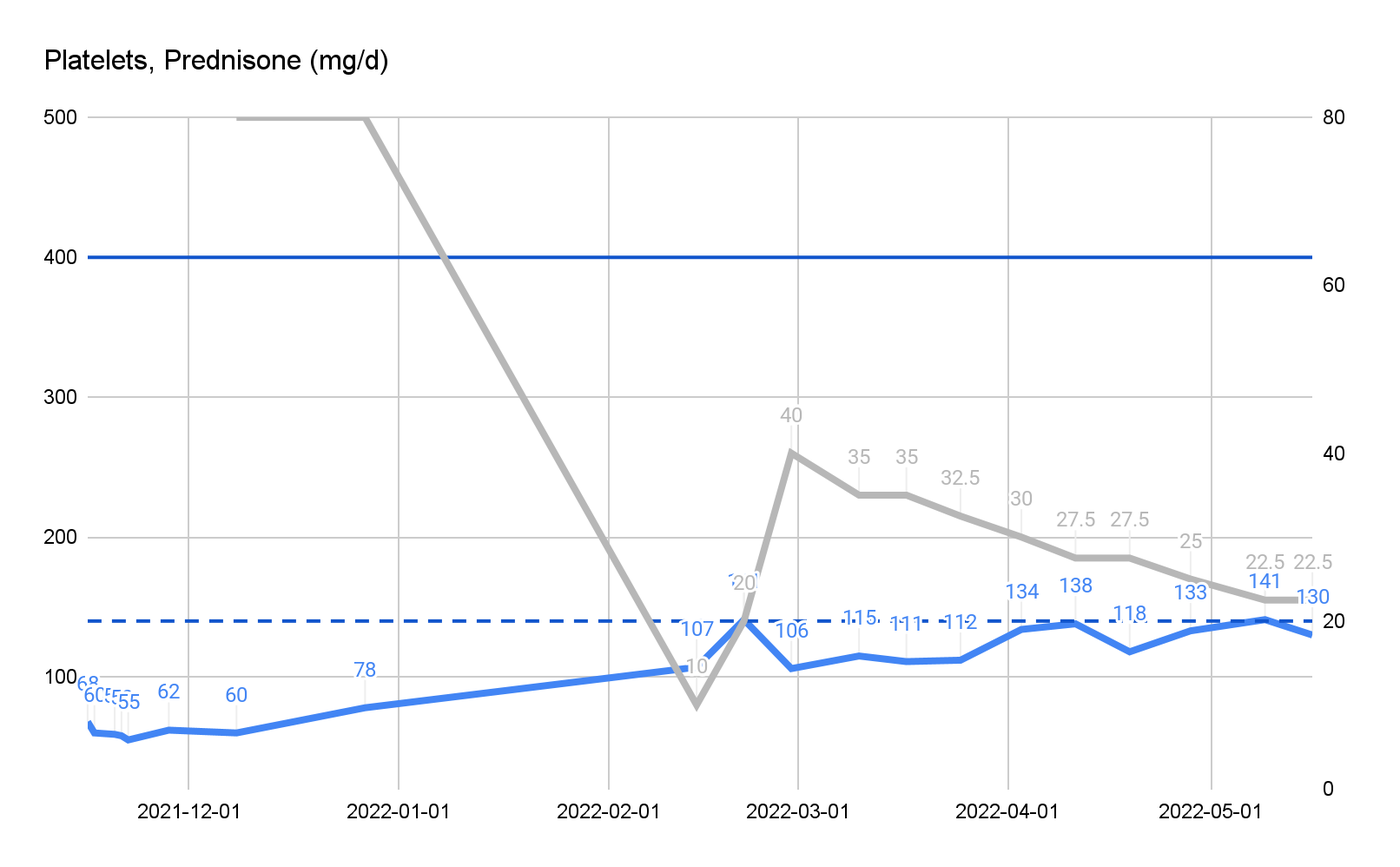
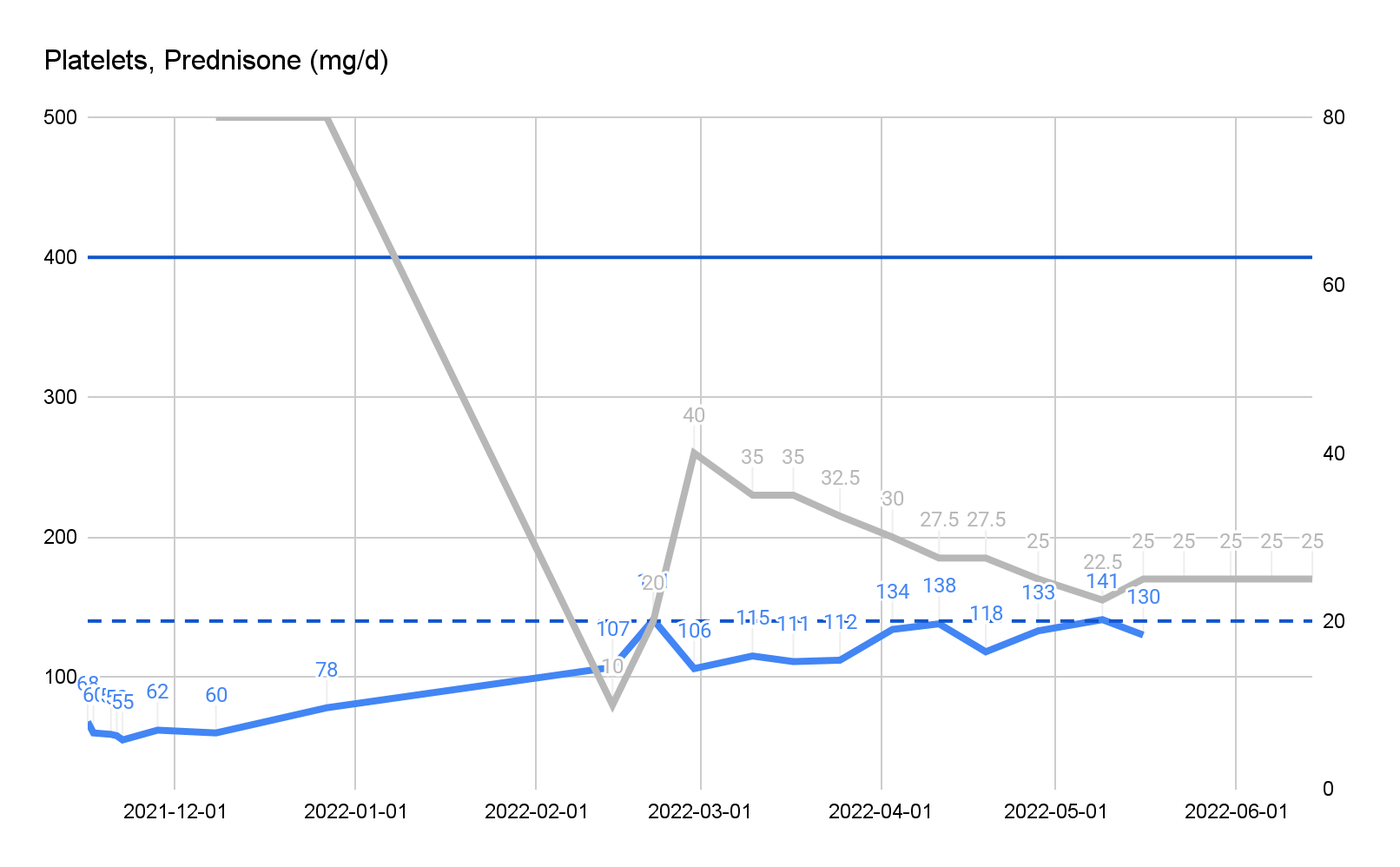
Longer x axis; links

diff --git a/docs/index.html b/docs/index.html
@@ -1,1 +1,1 @@
-<html><head><meta content="text/html; charset=UTF-8" http-equiv="content-type"><style type="text/css">ol.lst-kix_3a0iex6j0dws-4.start{counter-reset:lst-ctn-kix_3a0iex6j0dws-4 0}.lst-kix_3a0iex6j0dws-2>li:before{content:"" counter(lst-ctn-kix_3a0iex6j0dws-2,lower-roman) ". "}.lst-kix_3a0iex6j0dws-3>li:before{content:"" counter(lst-ctn-kix_3a0iex6j0dws-3,decimal) ". "}.lst-kix_3a0iex6j0dws-4>li:before{content:"" counter(lst-ctn-kix_3a0iex6j0dws-4,lower-latin) ". "}ol.lst-kix_3a0iex6j0dws-7.start{counter-reset:lst-ctn-kix_3a0iex6j0dws-7 0}ol.lst-kix_3a0iex6j0dws-1.start{counter-reset:lst-ctn-kix_3a0iex6j0dws-1 0}ol.lst-kix_a9wj3khbokgn-2.start{counter-reset:lst-ctn-kix_a9wj3khbokgn-2 0}.lst-kix_a9wj3khbokgn-3>li{counter-increment:lst-ctn-kix_a9wj3khbokgn-3}.lst-kix_3a0iex6j0dws-5>li{counter-increment:lst-ctn-kix_3a0iex6j0dws-5}ol.lst-kix_a9wj3khbokgn-8.start{counter-reset:lst-ctn-kix_a9wj3khbokgn-8 0}.lst-kix_3a0iex6j0dws-1>li:before{content:"" counter(lst-ctn-kix_3a0iex6j0dws-1,lower-latin) ". "}.lst-kix_3a0iex6j0dws-0>li:before{content:"" counter(lst-ctn-kix_3a0iex6j0dws-0,decimal) ". "}ol.lst-kix_a9wj3khbokgn-5.start{counter-reset:lst-ctn-kix_a9wj3khbokgn-5 0}.lst-kix_a9wj3khbokgn-1>li{counter-increment:lst-ctn-kix_a9wj3khbokgn-1}.lst-kix_a9wj3khbokgn-4>li{counter-increment:lst-ctn-kix_a9wj3khbokgn-4}.lst-kix_a9wj3khbokgn-7>li{counter-increment:lst-ctn-kix_a9wj3khbokgn-7}ol.lst-kix_3a0iex6j0dws-5.start{counter-reset:lst-ctn-kix_3a0iex6j0dws-5 0}ol.lst-kix_a9wj3khbokgn-8{list-style-type:none}ol.lst-kix_a9wj3khbokgn-7{list-style-type:none}.lst-kix_3a0iex6j0dws-1>li{counter-increment:lst-ctn-kix_3a0iex6j0dws-1}ol.lst-kix_a9wj3khbokgn-4.start{counter-reset:lst-ctn-kix_a9wj3khbokgn-4 0}.lst-kix_3a0iex6j0dws-7>li{counter-increment:lst-ctn-kix_3a0iex6j0dws-7}ol.lst-kix_a9wj3khbokgn-1.start{counter-reset:lst-ctn-kix_a9wj3khbokgn-1 0}.lst-kix_3a0iex6j0dws-4>li{counter-increment:lst-ctn-kix_3a0iex6j0dws-4}ol.lst-kix_3a0iex6j0dws-8.start{counter-reset:lst-ctn-kix_3a0iex6j0dws-8 0}ol.lst-kix_a9wj3khbokgn-0.start{counter-reset:lst-ctn-kix_a9wj3khbokgn-0 0}ol.lst-kix_3a0iex6j0dws-0{list-style-type:none}ol.lst-kix_a9wj3khbokgn-0{list-style-type:none}ol.lst-kix_3a0iex6j0dws-3{list-style-type:none}ol.lst-kix_3a0iex6j0dws-4{list-style-type:none}ol.lst-kix_a9wj3khbokgn-2{list-style-type:none}ol.lst-kix_3a0iex6j0dws-1{list-style-type:none}ol.lst-kix_a9wj3khbokgn-1{list-style-type:none}ol.lst-kix_3a0iex6j0dws-2{list-style-type:none}ol.lst-kix_a9wj3khbokgn-4{list-style-type:none}ol.lst-kix_3a0iex6j0dws-7{list-style-type:none}ol.lst-kix_a9wj3khbokgn-3{list-style-type:none}ol.lst-kix_3a0iex6j0dws-6.start{counter-reset:lst-ctn-kix_3a0iex6j0dws-6 0}ol.lst-kix_3a0iex6j0dws-8{list-style-type:none}.lst-kix_a9wj3khbokgn-0>li:before{content:"" counter(lst-ctn-kix_a9wj3khbokgn-0,decimal) ". "}ol.lst-kix_a9wj3khbokgn-6{list-style-type:none}ol.lst-kix_a9wj3khbokgn-7.start{counter-reset:lst-ctn-kix_a9wj3khbokgn-7 0}ol.lst-kix_3a0iex6j0dws-2.start{counter-reset:lst-ctn-kix_3a0iex6j0dws-2 0}ol.lst-kix_3a0iex6j0dws-5{list-style-type:none}ol.lst-kix_a9wj3khbokgn-5{list-style-type:none}ol.lst-kix_3a0iex6j0dws-6{list-style-type:none}ol.lst-kix_a9wj3khbokgn-3.start{counter-reset:lst-ctn-kix_a9wj3khbokgn-3 0}.lst-kix_a9wj3khbokgn-6>li{counter-increment:lst-ctn-kix_a9wj3khbokgn-6}.lst-kix_3a0iex6j0dws-8>li{counter-increment:lst-ctn-kix_3a0iex6j0dws-8}.lst-kix_3a0iex6j0dws-2>li{counter-increment:lst-ctn-kix_3a0iex6j0dws-2}.lst-kix_a9wj3khbokgn-0>li{counter-increment:lst-ctn-kix_a9wj3khbokgn-0}.lst-kix_3a0iex6j0dws-3>li{counter-increment:lst-ctn-kix_3a0iex6j0dws-3}.lst-kix_3a0iex6j0dws-0>li{counter-increment:lst-ctn-kix_3a0iex6j0dws-0}.lst-kix_3a0iex6j0dws-6>li{counter-increment:lst-ctn-kix_3a0iex6j0dws-6}.lst-kix_a9wj3khbokgn-7>li:before{content:"" counter(lst-ctn-kix_a9wj3khbokgn-7,lower-latin) ". "}.lst-kix_a9wj3khbokgn-6>li:before{content:"" counter(lst-ctn-kix_a9wj3khbokgn-6,decimal) ". "}ol.lst-kix_a9wj3khbokgn-6.start{counter-reset:lst-ctn-kix_a9wj3khbokgn-6 0}ol.lst-kix_3a0iex6j0dws-3.start{counter-reset:lst-ctn-kix_3a0iex6j0dws-3 0}li.li-bullet-0:before{margin-left:-18pt;white-space:nowrap;display:inline-block;min-width:18pt}.lst-kix_a9wj3khbokgn-8>li:before{content:"" counter(lst-ctn-kix_a9wj3khbokgn-8,lower-roman) ". "}.lst-kix_a9wj3khbokgn-1>li:before{content:"" counter(lst-ctn-kix_a9wj3khbokgn-1,lower-latin) ". "}.lst-kix_3a0iex6j0dws-6>li:before{content:"" counter(lst-ctn-kix_3a0iex6j0dws-6,decimal) ". "}.lst-kix_3a0iex6j0dws-5>li:before{content:"" counter(lst-ctn-kix_3a0iex6j0dws-5,lower-roman) ". "}.lst-kix_3a0iex6j0dws-7>li:before{content:"" counter(lst-ctn-kix_3a0iex6j0dws-7,lower-latin) ". "}.lst-kix_a9wj3khbokgn-3>li:before{content:"" counter(lst-ctn-kix_a9wj3khbokgn-3,decimal) ". "}.lst-kix_a9wj3khbokgn-2>li:before{content:"" counter(lst-ctn-kix_a9wj3khbokgn-2,lower-roman) ". "}.lst-kix_a9wj3khbokgn-5>li:before{content:"" counter(lst-ctn-kix_a9wj3khbokgn-5,lower-roman) ". "}.lst-kix_a9wj3khbokgn-5>li{counter-increment:lst-ctn-kix_a9wj3khbokgn-5}.lst-kix_a9wj3khbokgn-2>li{counter-increment:lst-ctn-kix_a9wj3khbokgn-2}.lst-kix_a9wj3khbokgn-8>li{counter-increment:lst-ctn-kix_a9wj3khbokgn-8}ol.lst-kix_3a0iex6j0dws-0.start{counter-reset:lst-ctn-kix_3a0iex6j0dws-0 0}.lst-kix_3a0iex6j0dws-8>li:before{content:"" counter(lst-ctn-kix_3a0iex6j0dws-8,lower-roman) ". "}.lst-kix_a9wj3khbokgn-4>li:before{content:"" counter(lst-ctn-kix_a9wj3khbokgn-4,lower-latin) ". "}ol{margin:0;padding:0}table td,table th{padding:0}.c0{margin-left:36pt;padding-top:0pt;padding-left:0pt;padding-bottom:0pt;line-height:1.15;orphans:2;widows:2;text-align:left}.c2{color:#000000;font-weight:400;text-decoration:none;vertical-align:baseline;font-size:11pt;font-family:"Arial";font-style:normal}.c1{padding-top:0pt;padding-bottom:0pt;line-height:1.15;orphans:2;widows:2;text-align:left;height:11pt}.c3{padding-top:0pt;padding-bottom:0pt;line-height:1.15;orphans:2;widows:2;text-align:left}.c5{background-color:#ffffff;max-width:468pt;padding:72pt 72pt 72pt 72pt}.c4{padding:0;margin:0}.title{padding-top:0pt;color:#000000;font-size:26pt;padding-bottom:3pt;font-family:"Arial";line-height:1.15;page-break-after:avoid;orphans:2;widows:2;text-align:left}.subtitle{padding-top:0pt;color:#666666;font-size:15pt;padding-bottom:16pt;font-family:"Arial";line-height:1.15;page-break-after:avoid;orphans:2;widows:2;text-align:left}li{color:#000000;font-size:11pt;font-family:"Arial"}p{margin:0;color:#000000;font-size:11pt;font-family:"Arial"}h1{padding-top:20pt;color:#000000;font-size:20pt;padding-bottom:6pt;font-family:"Arial";line-height:1.15;page-break-after:avoid;orphans:2;widows:2;text-align:left}h2{padding-top:18pt;color:#000000;font-size:16pt;padding-bottom:6pt;font-family:"Arial";line-height:1.15;page-break-after:avoid;orphans:2;widows:2;text-align:left}h3{padding-top:16pt;color:#434343;font-size:14pt;padding-bottom:4pt;font-family:"Arial";line-height:1.15;page-break-after:avoid;orphans:2;widows:2;text-align:left}h4{padding-top:14pt;color:#666666;font-size:12pt;padding-bottom:4pt;font-family:"Arial";line-height:1.15;page-break-after:avoid;orphans:2;widows:2;text-align:left}h5{padding-top:12pt;color:#666666;font-size:11pt;padding-bottom:4pt;font-family:"Arial";line-height:1.15;page-break-after:avoid;orphans:2;widows:2;text-align:left}h6{padding-top:12pt;color:#666666;font-size:11pt;padding-bottom:4pt;font-family:"Arial";line-height:1.15;page-break-after:avoid;font-style:italic;orphans:2;widows:2;text-align:left}</style></head><body class="c5"><ol class="c4 lst-kix_3a0iex6j0dws-0 start" start="1"><li class="c0 li-bullet-0"><span class="c2">Hemoglobin</span></li><li class="c0 li-bullet-0"><span class="c2">Hematocrit</span></li><li class="c0 li-bullet-0"><span class="c2">Red Blood Cells</span></li><li class="c0 li-bullet-0"><span class="c2">White Blood Cells</span></li><li class="c0 li-bullet-0"><span class="c2">Absolute Neutrophil Count</span></li><li class="c0 li-bullet-0"><span class="c2">Platelets</span></li><li class="c0 li-bullet-0"><span class="c2">Bilirubin</span></li><li class="c0 li-bullet-0"><span class="c2">Lactate Dehydrogenase</span></li><li class="c0 li-bullet-0"><span class="c2">Reticulocytes/100 RBC&#39;s</span></li><li class="c0 li-bullet-0"><span class="c2">Reticulocytes</span></li><li class="c0 li-bullet-0"><span class="c2">Haptoglobin (&lt;9)</span></li></ol><p class="c1"><span class="c2"></span></p><p class="c1"><span class="c2"></span></p><ol class="c4 lst-kix_a9wj3khbokgn-0 start" start="1"><li class="c0 li-bullet-0"><span class="c2">Hemoglobin</span></li></ol><p class="c3"><span style="overflow: hidden; display: inline-block; margin: 0.00px 0.00px; border: 0.00px solid #000000; transform: rotate(0.00rad) translateZ(0px); -webkit-transform: rotate(0.00rad) translateZ(0px); width: 624.00px; height: 386.67px;"><img alt="" src="images/image10.png" style="width: 624.00px; height: 386.67px; margin-left: 0.00px; margin-top: 0.00px; transform: rotate(0.00rad) translateZ(0px); -webkit-transform: rotate(0.00rad) translateZ(0px);" title="Chart"></span></p><p class="c1"><span class="c2"></span></p><hr style="page-break-before:always;display:none;"><p class="c1"><span class="c2"></span></p><p class="c1"><span class="c2"></span></p><ol class="c4 lst-kix_a9wj3khbokgn-0" start="2"><li class="c0 li-bullet-0"><span class="c2">Hematocrit</span></li></ol><p class="c3"><span style="overflow: hidden; display: inline-block; margin: 0.00px 0.00px; border: 0.00px solid #000000; transform: rotate(0.00rad) translateZ(0px); -webkit-transform: rotate(0.00rad) translateZ(0px); width: 624.00px; height: 386.67px;"><img alt="" src="images/image1.png" style="width: 624.00px; height: 386.67px; margin-left: 0.00px; margin-top: 0.00px; transform: rotate(0.00rad) translateZ(0px); -webkit-transform: rotate(0.00rad) translateZ(0px);" title="Chart"></span></p><p class="c1"><span class="c2"></span></p><ol class="c4 lst-kix_a9wj3khbokgn-0" start="3"><li class="c0 li-bullet-0"><span class="c2">Red Blood Cells</span></li></ol><p class="c3"><span style="overflow: hidden; display: inline-block; margin: 0.00px 0.00px; border: 0.00px solid #000000; transform: rotate(0.00rad) translateZ(0px); -webkit-transform: rotate(0.00rad) translateZ(0px); width: 624.00px; height: 386.67px;"><img alt="" src="images/image8.png" style="width: 624.00px; height: 386.67px; margin-left: 0.00px; margin-top: 0.00px; transform: rotate(0.00rad) translateZ(0px); -webkit-transform: rotate(0.00rad) translateZ(0px);" title="Chart"></span></p><p class="c1"><span class="c2"></span></p><p class="c1"><span class="c2"></span></p><p class="c1"><span class="c2"></span></p><p class="c1"><span class="c2"></span></p><ol class="c4 lst-kix_a9wj3khbokgn-0" start="4"><li class="c0 li-bullet-0"><span class="c2">White Blood Cells</span></li></ol><p class="c3"><span style="overflow: hidden; display: inline-block; margin: 0.00px 0.00px; border: 0.00px solid #000000; transform: rotate(0.00rad) translateZ(0px); -webkit-transform: rotate(0.00rad) translateZ(0px); width: 624.00px; height: 386.67px;"><img alt="" src="images/image7.png" style="width: 624.00px; height: 386.67px; margin-left: 0.00px; margin-top: 0.00px; transform: rotate(0.00rad) translateZ(0px); -webkit-transform: rotate(0.00rad) translateZ(0px);" title="Chart"></span></p><p class="c1"><span class="c2"></span></p><p class="c1"><span class="c2"></span></p><p class="c1"><span class="c2"></span></p><p class="c1"><span class="c2"></span></p><ol class="c4 lst-kix_a9wj3khbokgn-0" start="5"><li class="c0 li-bullet-0"><span class="c2">Absolute Neutrophil Count</span></li></ol><p class="c3"><span style="overflow: hidden; display: inline-block; margin: 0.00px 0.00px; border: 0.00px solid #000000; transform: rotate(0.00rad) translateZ(0px); -webkit-transform: rotate(0.00rad) translateZ(0px); width: 624.00px; height: 386.67px;"><img alt="" src="images/image3.png" style="width: 624.00px; height: 386.67px; margin-left: 0.00px; margin-top: 0.00px; transform: rotate(0.00rad) translateZ(0px); -webkit-transform: rotate(0.00rad) translateZ(0px);" title="Chart"></span></p><p class="c1"><span class="c2"></span></p><p class="c1"><span class="c2"></span></p><p class="c1"><span class="c2"></span></p><p class="c1"><span class="c2"></span></p><p class="c1"><span class="c2"></span></p><ol class="c4 lst-kix_a9wj3khbokgn-0" start="6"><li class="c0 li-bullet-0"><span class="c2">Platelets</span></li></ol><p class="c3"><span style="overflow: hidden; display: inline-block; margin: 0.00px 0.00px; border: 0.00px solid #000000; transform: rotate(0.00rad) translateZ(0px); -webkit-transform: rotate(0.00rad) translateZ(0px); width: 624.00px; height: 386.67px;"><img alt="" src="images/image4.png" style="width: 624.00px; height: 386.67px; margin-left: 0.00px; margin-top: 0.00px; transform: rotate(0.00rad) translateZ(0px); -webkit-transform: rotate(0.00rad) translateZ(0px);" title="Chart"></span></p><p class="c1"><span class="c2"></span></p><p class="c1"><span class="c2"></span></p><p class="c1"><span class="c2"></span></p><p class="c1"><span class="c2"></span></p><ol class="c4 lst-kix_a9wj3khbokgn-0" start="7"><li class="c0 li-bullet-0"><span class="c2">Bilirubin</span></li></ol><p class="c3"><span style="overflow: hidden; display: inline-block; margin: 0.00px 0.00px; border: 0.00px solid #000000; transform: rotate(0.00rad) translateZ(0px); -webkit-transform: rotate(0.00rad) translateZ(0px); width: 624.00px; height: 386.67px;"><img alt="" src="images/image2.png" style="width: 624.00px; height: 386.67px; margin-left: 0.00px; margin-top: 0.00px; transform: rotate(0.00rad) translateZ(0px); -webkit-transform: rotate(0.00rad) translateZ(0px);" title="Chart"></span></p><p class="c1"><span class="c2"></span></p><ol class="c4 lst-kix_a9wj3khbokgn-0" start="8"><li class="c0 li-bullet-0"><span class="c2">Lactate Dehydrogenase</span></li></ol><p class="c3"><span style="overflow: hidden; display: inline-block; margin: 0.00px 0.00px; border: 0.00px solid #000000; transform: rotate(0.00rad) translateZ(0px); -webkit-transform: rotate(0.00rad) translateZ(0px); width: 624.00px; height: 386.67px;"><img alt="" src="images/image6.png" style="width: 624.00px; height: 386.67px; margin-left: 0.00px; margin-top: 0.00px; transform: rotate(0.00rad) translateZ(0px); -webkit-transform: rotate(0.00rad) translateZ(0px);" title="Chart"></span></p><p class="c1"><span class="c2"></span></p><p class="c1"><span class="c2"></span></p><ol class="c4 lst-kix_a9wj3khbokgn-0" start="9"><li class="c0 li-bullet-0"><span class="c2">Reticulocytes/100 RBC&#39;s</span></li></ol><p class="c3"><span style="overflow: hidden; display: inline-block; margin: 0.00px 0.00px; border: 0.00px solid #000000; transform: rotate(0.00rad) translateZ(0px); -webkit-transform: rotate(0.00rad) translateZ(0px); width: 624.00px; height: 386.67px;"><img alt="" src="images/image9.png" style="width: 624.00px; height: 386.67px; margin-left: 0.00px; margin-top: 0.00px; transform: rotate(0.00rad) translateZ(0px); -webkit-transform: rotate(0.00rad) translateZ(0px);" title="Chart"></span></p><p class="c1"><span class="c2"></span></p><p class="c1"><span class="c2"></span></p><p class="c1"><span class="c2"></span></p><ol class="c4 lst-kix_a9wj3khbokgn-0" start="10"><li class="c0 li-bullet-0"><span class="c2">Reticulocytes</span></li></ol><p class="c3"><span style="overflow: hidden; display: inline-block; margin: 0.00px 0.00px; border: 0.00px solid #000000; transform: rotate(0.00rad) translateZ(0px); -webkit-transform: rotate(0.00rad) translateZ(0px); width: 624.00px; height: 386.67px;"><img alt="" src="images/image5.png" style="width: 624.00px; height: 386.67px; margin-left: 0.00px; margin-top: 0.00px; transform: rotate(0.00rad) translateZ(0px); -webkit-transform: rotate(0.00rad) translateZ(0px);" title="Chart"></span></p><p class="c1"><span class="c2"></span></p><p class="c1"><span class="c2"></span></p><p class="c1"><span class="c2"></span></p><ol class="c4 lst-kix_a9wj3khbokgn-0" start="11"><li class="c0 li-bullet-0"><span class="c2">Haptoglobin (&lt;9)</span></li></ol><p class="c1"><span class="c2"></span></p><p class="c3"><span class="c2">Normal Low: 30, Normal High: 220 mg/dL</span></p><p class="c3"><span class="c2">2/28&nbsp;&nbsp;&nbsp;&nbsp;&nbsp;&nbsp;&nbsp;&nbsp;3/9&nbsp;&nbsp;&nbsp;&nbsp;&nbsp;&nbsp;&nbsp;&nbsp;3/17&nbsp;&nbsp;&nbsp;&nbsp;&nbsp;&nbsp;&nbsp;&nbsp;3/25&nbsp;&nbsp;&nbsp;&nbsp;&nbsp;&nbsp;&nbsp;&nbsp;4/3&nbsp;&nbsp;&nbsp;&nbsp;&nbsp;&nbsp;&nbsp;&nbsp;4/11&nbsp;&nbsp;&nbsp;&nbsp;&nbsp;&nbsp;&nbsp;&nbsp;4/19&nbsp;&nbsp;&nbsp;&nbsp;&nbsp;&nbsp;&nbsp;&nbsp;4/28&nbsp;&nbsp;&nbsp;&nbsp;&nbsp;&nbsp;&nbsp;&nbsp;5/9&nbsp;&nbsp;&nbsp;&nbsp;&nbsp;&nbsp;&nbsp;&nbsp;5/16&nbsp;&nbsp;&nbsp;&nbsp;&nbsp;&nbsp;&nbsp;&nbsp;</span></p><p class="c3"><span class="c2">&lt;9&nbsp;&nbsp;&nbsp;&nbsp;&nbsp;&nbsp;&nbsp;&nbsp;&lt;9&nbsp;&nbsp;&nbsp;&nbsp;&nbsp;&nbsp;&nbsp;&nbsp;&lt;9&nbsp;&nbsp;&nbsp;&nbsp;&nbsp;&nbsp;&nbsp;&nbsp;&lt;9&nbsp;&nbsp;&nbsp;&nbsp;&nbsp;&nbsp;&nbsp;&nbsp;&lt;9&nbsp;&nbsp;&nbsp;&nbsp;&nbsp;&nbsp;&nbsp;&nbsp;&lt;9&nbsp;&nbsp;&nbsp;&nbsp;&nbsp;&nbsp;&nbsp;&nbsp;&lt;9&nbsp;&nbsp;&nbsp;&nbsp;&nbsp;&nbsp;&nbsp;&nbsp;&lt;9&nbsp;&nbsp;&nbsp;&nbsp;&nbsp;&nbsp;&nbsp;&nbsp;&lt;9&nbsp;&nbsp;&nbsp;&nbsp;&nbsp;&nbsp;&nbsp;&nbsp;&lt;9</span></p><p class="c1"><span class="c2"></span></p><p class="c1"><span class="c2"></span></p><p class="c1"><span class="c2"></span></p><p class="c1"><span class="c2"></span></p><p class="c1"><span class="c2"></span></p><p class="c1"><span class="c2"></span></p><p class="c1"><span class="c2"></span></p><p class="c1"><span class="c2"></span></p><p class="c1"><span class="c2"></span></p><p class="c1"><span class="c2"></span></p><p class="c1"><span class="c2"></span></p><p class="c1"><span class="c2"></span></p></body></html>
+<html><head><meta content="text/html; charset=UTF-8" http-equiv="content-type"><style type="text/css">ol.lst-kix_3a0iex6j0dws-4.start{counter-reset:lst-ctn-kix_3a0iex6j0dws-4 0}.lst-kix_3a0iex6j0dws-2>li:before{content:"" counter(lst-ctn-kix_3a0iex6j0dws-2,lower-roman) ". "}.lst-kix_3a0iex6j0dws-3>li:before{content:"" counter(lst-ctn-kix_3a0iex6j0dws-3,decimal) ". "}.lst-kix_3a0iex6j0dws-4>li:before{content:"" counter(lst-ctn-kix_3a0iex6j0dws-4,lower-latin) ". "}ol.lst-kix_3a0iex6j0dws-7.start{counter-reset:lst-ctn-kix_3a0iex6j0dws-7 0}ol.lst-kix_3a0iex6j0dws-1.start{counter-reset:lst-ctn-kix_3a0iex6j0dws-1 0}ol.lst-kix_a9wj3khbokgn-2.start{counter-reset:lst-ctn-kix_a9wj3khbokgn-2 0}.lst-kix_a9wj3khbokgn-3>li{counter-increment:lst-ctn-kix_a9wj3khbokgn-3}.lst-kix_3a0iex6j0dws-5>li{counter-increment:lst-ctn-kix_3a0iex6j0dws-5}ol.lst-kix_a9wj3khbokgn-8.start{counter-reset:lst-ctn-kix_a9wj3khbokgn-8 0}.lst-kix_3a0iex6j0dws-1>li:before{content:"" counter(lst-ctn-kix_3a0iex6j0dws-1,lower-latin) ". "}.lst-kix_3a0iex6j0dws-0>li:before{content:"" counter(lst-ctn-kix_3a0iex6j0dws-0,decimal) ". "}ol.lst-kix_a9wj3khbokgn-5.start{counter-reset:lst-ctn-kix_a9wj3khbokgn-5 0}.lst-kix_a9wj3khbokgn-1>li{counter-increment:lst-ctn-kix_a9wj3khbokgn-1}.lst-kix_a9wj3khbokgn-4>li{counter-increment:lst-ctn-kix_a9wj3khbokgn-4}.lst-kix_a9wj3khbokgn-7>li{counter-increment:lst-ctn-kix_a9wj3khbokgn-7}ol.lst-kix_3a0iex6j0dws-5.start{counter-reset:lst-ctn-kix_3a0iex6j0dws-5 0}ol.lst-kix_a9wj3khbokgn-8{list-style-type:none}ol.lst-kix_a9wj3khbokgn-7{list-style-type:none}.lst-kix_3a0iex6j0dws-1>li{counter-increment:lst-ctn-kix_3a0iex6j0dws-1}ol.lst-kix_a9wj3khbokgn-4.start{counter-reset:lst-ctn-kix_a9wj3khbokgn-4 0}.lst-kix_3a0iex6j0dws-7>li{counter-increment:lst-ctn-kix_3a0iex6j0dws-7}ol.lst-kix_a9wj3khbokgn-1.start{counter-reset:lst-ctn-kix_a9wj3khbokgn-1 0}.lst-kix_3a0iex6j0dws-4>li{counter-increment:lst-ctn-kix_3a0iex6j0dws-4}ol.lst-kix_3a0iex6j0dws-8.start{counter-reset:lst-ctn-kix_3a0iex6j0dws-8 0}ol.lst-kix_a9wj3khbokgn-0.start{counter-reset:lst-ctn-kix_a9wj3khbokgn-0 0}ol.lst-kix_3a0iex6j0dws-0{list-style-type:none}ol.lst-kix_a9wj3khbokgn-0{list-style-type:none}ol.lst-kix_3a0iex6j0dws-3{list-style-type:none}ol.lst-kix_3a0iex6j0dws-4{list-style-type:none}ol.lst-kix_a9wj3khbokgn-2{list-style-type:none}ol.lst-kix_3a0iex6j0dws-1{list-style-type:none}ol.lst-kix_a9wj3khbokgn-1{list-style-type:none}ol.lst-kix_3a0iex6j0dws-2{list-style-type:none}ol.lst-kix_a9wj3khbokgn-4{list-style-type:none}ol.lst-kix_3a0iex6j0dws-7{list-style-type:none}ol.lst-kix_a9wj3khbokgn-3{list-style-type:none}ol.lst-kix_3a0iex6j0dws-6.start{counter-reset:lst-ctn-kix_3a0iex6j0dws-6 0}ol.lst-kix_3a0iex6j0dws-8{list-style-type:none}.lst-kix_a9wj3khbokgn-0>li:before{content:"" counter(lst-ctn-kix_a9wj3khbokgn-0,decimal) ". "}ol.lst-kix_a9wj3khbokgn-6{list-style-type:none}ol.lst-kix_a9wj3khbokgn-7.start{counter-reset:lst-ctn-kix_a9wj3khbokgn-7 0}ol.lst-kix_3a0iex6j0dws-2.start{counter-reset:lst-ctn-kix_3a0iex6j0dws-2 0}ol.lst-kix_3a0iex6j0dws-5{list-style-type:none}ol.lst-kix_a9wj3khbokgn-5{list-style-type:none}ol.lst-kix_3a0iex6j0dws-6{list-style-type:none}ol.lst-kix_a9wj3khbokgn-3.start{counter-reset:lst-ctn-kix_a9wj3khbokgn-3 0}.lst-kix_a9wj3khbokgn-6>li{counter-increment:lst-ctn-kix_a9wj3khbokgn-6}.lst-kix_3a0iex6j0dws-8>li{counter-increment:lst-ctn-kix_3a0iex6j0dws-8}.lst-kix_3a0iex6j0dws-2>li{counter-increment:lst-ctn-kix_3a0iex6j0dws-2}.lst-kix_a9wj3khbokgn-0>li{counter-increment:lst-ctn-kix_a9wj3khbokgn-0}.lst-kix_3a0iex6j0dws-3>li{counter-increment:lst-ctn-kix_3a0iex6j0dws-3}.lst-kix_3a0iex6j0dws-0>li{counter-increment:lst-ctn-kix_3a0iex6j0dws-0}.lst-kix_3a0iex6j0dws-6>li{counter-increment:lst-ctn-kix_3a0iex6j0dws-6}.lst-kix_a9wj3khbokgn-7>li:before{content:"" counter(lst-ctn-kix_a9wj3khbokgn-7,lower-latin) ". "}.lst-kix_a9wj3khbokgn-6>li:before{content:"" counter(lst-ctn-kix_a9wj3khbokgn-6,decimal) ". "}ol.lst-kix_a9wj3khbokgn-6.start{counter-reset:lst-ctn-kix_a9wj3khbokgn-6 0}ol.lst-kix_3a0iex6j0dws-3.start{counter-reset:lst-ctn-kix_3a0iex6j0dws-3 0}li.li-bullet-0:before{margin-left:-18pt;white-space:nowrap;display:inline-block;min-width:18pt}.lst-kix_a9wj3khbokgn-8>li:before{content:"" counter(lst-ctn-kix_a9wj3khbokgn-8,lower-roman) ". "}.lst-kix_a9wj3khbokgn-1>li:before{content:"" counter(lst-ctn-kix_a9wj3khbokgn-1,lower-latin) ". "}.lst-kix_3a0iex6j0dws-6>li:before{content:"" counter(lst-ctn-kix_3a0iex6j0dws-6,decimal) ". "}.lst-kix_3a0iex6j0dws-5>li:before{content:"" counter(lst-ctn-kix_3a0iex6j0dws-5,lower-roman) ". "}.lst-kix_3a0iex6j0dws-7>li:before{content:"" counter(lst-ctn-kix_3a0iex6j0dws-7,lower-latin) ". "}.lst-kix_a9wj3khbokgn-3>li:before{content:"" counter(lst-ctn-kix_a9wj3khbokgn-3,decimal) ". "}.lst-kix_a9wj3khbokgn-2>li:before{content:"" counter(lst-ctn-kix_a9wj3khbokgn-2,lower-roman) ". "}.lst-kix_a9wj3khbokgn-5>li:before{content:"" counter(lst-ctn-kix_a9wj3khbokgn-5,lower-roman) ". "}.lst-kix_a9wj3khbokgn-5>li{counter-increment:lst-ctn-kix_a9wj3khbokgn-5}.lst-kix_a9wj3khbokgn-2>li{counter-increment:lst-ctn-kix_a9wj3khbokgn-2}.lst-kix_a9wj3khbokgn-8>li{counter-increment:lst-ctn-kix_a9wj3khbokgn-8}ol.lst-kix_3a0iex6j0dws-0.start{counter-reset:lst-ctn-kix_3a0iex6j0dws-0 0}.lst-kix_3a0iex6j0dws-8>li:before{content:"" counter(lst-ctn-kix_3a0iex6j0dws-8,lower-roman) ". "}.lst-kix_a9wj3khbokgn-4>li:before{content:"" counter(lst-ctn-kix_a9wj3khbokgn-4,lower-latin) ". "}ol{margin:0;padding:0}table td,table th{padding:0}.c0{color:#000000;font-weight:400;text-decoration:none;vertical-align:baseline;font-size:11pt;font-family:"Arial";font-style:normal}.c3{color:#434343;font-weight:400;text-decoration:none;vertical-align:baseline;font-size:14pt;font-family:"Arial";font-style:normal}.c6{padding-top:16pt;padding-bottom:4pt;line-height:1.15;page-break-after:avoid;orphans:2;widows:2;text-align:left}.c1{padding-top:0pt;padding-bottom:0pt;line-height:1.15;orphans:2;widows:2;text-align:left;height:11pt}.c2{padding-top:0pt;padding-bottom:0pt;line-height:1.15;orphans:2;widows:2;text-align:left}.c8{text-decoration-skip-ink:none;-webkit-text-decoration-skip:none;color:#1155cc;text-decoration:underline}.c9{background-color:#ffffff;max-width:468pt;padding:72pt 72pt 72pt 72pt}.c5{padding:0;margin:0}.c4{margin-left:36pt;padding-left:0pt}.c7{color:inherit;text-decoration:inherit}.title{padding-top:0pt;color:#000000;font-size:26pt;padding-bottom:3pt;font-family:"Arial";line-height:1.15;page-break-after:avoid;orphans:2;widows:2;text-align:left}.subtitle{padding-top:0pt;color:#666666;font-size:15pt;padding-bottom:16pt;font-family:"Arial";line-height:1.15;page-break-after:avoid;orphans:2;widows:2;text-align:left}li{color:#000000;font-size:11pt;font-family:"Arial"}p{margin:0;color:#000000;font-size:11pt;font-family:"Arial"}h1{padding-top:20pt;color:#000000;font-size:20pt;padding-bottom:6pt;font-family:"Arial";line-height:1.15;page-break-after:avoid;orphans:2;widows:2;text-align:left}h2{padding-top:18pt;color:#000000;font-size:16pt;padding-bottom:6pt;font-family:"Arial";line-height:1.15;page-break-after:avoid;orphans:2;widows:2;text-align:left}h3{padding-top:16pt;color:#434343;font-size:14pt;padding-bottom:4pt;font-family:"Arial";line-height:1.15;page-break-after:avoid;orphans:2;widows:2;text-align:left}h4{padding-top:14pt;color:#666666;font-size:12pt;padding-bottom:4pt;font-family:"Arial";line-height:1.15;page-break-after:avoid;orphans:2;widows:2;text-align:left}h5{padding-top:12pt;color:#666666;font-size:11pt;padding-bottom:4pt;font-family:"Arial";line-height:1.15;page-break-after:avoid;orphans:2;widows:2;text-align:left}h6{padding-top:12pt;color:#666666;font-size:11pt;padding-bottom:4pt;font-family:"Arial";line-height:1.15;page-break-after:avoid;font-style:italic;orphans:2;widows:2;text-align:left}</style></head><body class="c9"><ol class="c5 lst-kix_3a0iex6j0dws-0 start" start="1"><li class="c2 c4 li-bullet-0"><span class="c8"><a class="c7" href="#h.rlhl9o5hn8dx">Hemoglobin</a></span></li><li class="c2 c4 li-bullet-0"><span class="c8"><a class="c7" href="#h.gml8ptoma97h">Hematocrit</a></span></li><li class="c2 c4 li-bullet-0"><span class="c8"><a class="c7" href="#h.wxme4qhqioi6">Red Blood Cells</a></span></li><li class="c2 c4 li-bullet-0"><span class="c8"><a class="c7" href="#h.5fhvqzrhp3ns">White Blood Cells</a></span></li><li class="c2 c4 li-bullet-0"><span class="c8"><a class="c7" href="#h.n99apoj4th2p">Absolute Neutrophil Count</a></span></li><li class="c2 c4 li-bullet-0"><span class="c8"><a class="c7" href="#h.iagh8331sjf7">Platelets</a></span></li><li class="c2 c4 li-bullet-0"><span class="c8"><a class="c7" href="#h.n2t25eae7w5m">Bilirubin</a></span></li><li class="c2 c4 li-bullet-0"><span class="c8"><a class="c7" href="#h.1ipjzcz9ushu">Lactate Dehydrogenase</a></span></li><li class="c2 c4 li-bullet-0"><span class="c8"><a class="c7" href="#h.a3xmdi6y7tge">Reticulocytes/100 RBC&#39;s</a></span></li><li class="c2 c4 li-bullet-0"><span class="c8"><a class="c7" href="#h.kq6zwd7e03s">Reticulocytes</a></span></li><li class="c2 c4 li-bullet-0"><span class="c8"><a class="c7" href="#h.5bph6vvoh9jm">Haptoglobin</a></span></li></ol><p class="c1"><span class="c0"></span></p><p class="c1"><span class="c0"></span></p><ol class="c5 lst-kix_a9wj3khbokgn-0 start" start="1"><li class="c6 c4 li-bullet-0"><h3 id="h.rlhl9o5hn8dx" style="display:inline"><span class="c3">Hemoglobin</span></h3></li></ol><p class="c2"><span style="overflow: hidden; display: inline-block; margin: 0.00px 0.00px; border: 0.00px solid #000000; transform: rotate(0.00rad) translateZ(0px); -webkit-transform: rotate(0.00rad) translateZ(0px); width: 624.00px; height: 386.67px;"><img alt="" src="images/image10.png" style="width: 624.00px; height: 386.67px; margin-left: 0.00px; margin-top: 0.00px; transform: rotate(0.00rad) translateZ(0px); -webkit-transform: rotate(0.00rad) translateZ(0px);" title="Chart"></span></p><p class="c1"><span class="c0"></span></p><hr style="page-break-before:always;display:none;"><p class="c1"><span class="c0"></span></p><p class="c1"><span class="c0"></span></p><ol class="c5 lst-kix_a9wj3khbokgn-0" start="2"><li class="c6 c4 li-bullet-0"><h3 id="h.gml8ptoma97h" style="display:inline"><span class="c3">Hematocrit</span></h3></li></ol><p class="c2"><span style="overflow: hidden; display: inline-block; margin: 0.00px 0.00px; border: 0.00px solid #000000; transform: rotate(0.00rad) translateZ(0px); -webkit-transform: rotate(0.00rad) translateZ(0px); width: 624.00px; height: 386.67px;"><img alt="" src="images/image1.png" style="width: 624.00px; height: 386.67px; margin-left: 0.00px; margin-top: 0.00px; transform: rotate(0.00rad) translateZ(0px); -webkit-transform: rotate(0.00rad) translateZ(0px);" title="Chart"></span></p><p class="c1"><span class="c0"></span></p><ol class="c5 lst-kix_a9wj3khbokgn-0" start="3"><li class="c6 c4 li-bullet-0"><h3 id="h.wxme4qhqioi6" style="display:inline"><span class="c3">Red Blood Cells</span></h3></li></ol><p class="c2"><span style="overflow: hidden; display: inline-block; margin: 0.00px 0.00px; border: 0.00px solid #000000; transform: rotate(0.00rad) translateZ(0px); -webkit-transform: rotate(0.00rad) translateZ(0px); width: 624.00px; height: 386.67px;"><img alt="" src="images/image8.png" style="width: 624.00px; height: 386.67px; margin-left: 0.00px; margin-top: 0.00px; transform: rotate(0.00rad) translateZ(0px); -webkit-transform: rotate(0.00rad) translateZ(0px);" title="Chart"></span></p><p class="c1"><span class="c0"></span></p><p class="c1"><span class="c0"></span></p><p class="c1"><span class="c0"></span></p><p class="c1"><span class="c0"></span></p><ol class="c5 lst-kix_a9wj3khbokgn-0" start="4"><li class="c4 c6 li-bullet-0"><h3 id="h.5fhvqzrhp3ns" style="display:inline"><span class="c3">White Blood Cells</span></h3></li></ol><p class="c2"><span style="overflow: hidden; display: inline-block; margin: 0.00px 0.00px; border: 0.00px solid #000000; transform: rotate(0.00rad) translateZ(0px); -webkit-transform: rotate(0.00rad) translateZ(0px); width: 624.00px; height: 386.67px;"><img alt="" src="images/image7.png" style="width: 624.00px; height: 386.67px; margin-left: 0.00px; margin-top: 0.00px; transform: rotate(0.00rad) translateZ(0px); -webkit-transform: rotate(0.00rad) translateZ(0px);" title="Chart"></span></p><p class="c1"><span class="c0"></span></p><p class="c1"><span class="c0"></span></p><p class="c1"><span class="c0"></span></p><p class="c1"><span class="c0"></span></p><ol class="c5 lst-kix_a9wj3khbokgn-0" start="5"><li class="c6 c4 li-bullet-0"><h3 id="h.n99apoj4th2p" style="display:inline"><span class="c3">Absolute Neutrophil Count</span></h3></li></ol><p class="c2"><span style="overflow: hidden; display: inline-block; margin: 0.00px 0.00px; border: 0.00px solid #000000; transform: rotate(0.00rad) translateZ(0px); -webkit-transform: rotate(0.00rad) translateZ(0px); width: 624.00px; height: 386.67px;"><img alt="" src="images/image2.png" style="width: 624.00px; height: 386.67px; margin-left: 0.00px; margin-top: 0.00px; transform: rotate(0.00rad) translateZ(0px); -webkit-transform: rotate(0.00rad) translateZ(0px);" title="Chart"></span></p><p class="c1"><span class="c0"></span></p><p class="c1"><span class="c0"></span></p><p class="c1"><span class="c0"></span></p><p class="c1"><span class="c0"></span></p><p class="c1"><span class="c0"></span></p><ol class="c5 lst-kix_a9wj3khbokgn-0" start="6"><li class="c6 c4 li-bullet-0"><h3 id="h.iagh8331sjf7" style="display:inline"><span class="c3">Platelets</span></h3></li></ol><p class="c2"><span style="overflow: hidden; display: inline-block; margin: 0.00px 0.00px; border: 0.00px solid #000000; transform: rotate(0.00rad) translateZ(0px); -webkit-transform: rotate(0.00rad) translateZ(0px); width: 624.00px; height: 386.67px;"><img alt="" src="images/image4.png" style="width: 624.00px; height: 386.67px; margin-left: 0.00px; margin-top: 0.00px; transform: rotate(0.00rad) translateZ(0px); -webkit-transform: rotate(0.00rad) translateZ(0px);" title="Chart"></span></p><p class="c1"><span class="c0"></span></p><p class="c1"><span class="c0"></span></p><p class="c1"><span class="c0"></span></p><p class="c1"><span class="c0"></span></p><ol class="c5 lst-kix_a9wj3khbokgn-0" start="7"><li class="c6 c4 li-bullet-0"><h3 id="h.n2t25eae7w5m" style="display:inline"><span class="c3">Bilirubin&nbsp;&nbsp;&nbsp;&nbsp;&nbsp;&nbsp;&nbsp;&nbsp;</span></h3></li></ol><p class="c2"><span style="overflow: hidden; display: inline-block; margin: 0.00px 0.00px; border: 0.00px solid #000000; transform: rotate(0.00rad) translateZ(0px); -webkit-transform: rotate(0.00rad) translateZ(0px); width: 624.00px; height: 386.67px;"><img alt="" src="images/image3.png" style="width: 624.00px; height: 386.67px; margin-left: 0.00px; margin-top: 0.00px; transform: rotate(0.00rad) translateZ(0px); -webkit-transform: rotate(0.00rad) translateZ(0px);" title="Chart"></span></p><p class="c1"><span class="c0"></span></p><p class="c1"><span class="c0"></span></p><p class="c1"><span class="c0"></span></p><p class="c1"><span class="c0"></span></p><p class="c1"><span class="c0"></span></p><ol class="c5 lst-kix_a9wj3khbokgn-0" start="8"><li class="c6 c4 li-bullet-0"><h3 id="h.1ipjzcz9ushu" style="display:inline"><span class="c3">Lactate Dehydrogenase</span></h3></li></ol><p class="c2"><span style="overflow: hidden; display: inline-block; margin: 0.00px 0.00px; border: 0.00px solid #000000; transform: rotate(0.00rad) translateZ(0px); -webkit-transform: rotate(0.00rad) translateZ(0px); width: 624.00px; height: 386.67px;"><img alt="" src="images/image6.png" style="width: 624.00px; height: 386.67px; margin-left: 0.00px; margin-top: 0.00px; transform: rotate(0.00rad) translateZ(0px); -webkit-transform: rotate(0.00rad) translateZ(0px);" title="Chart"></span></p><p class="c1"><span class="c0"></span></p><p class="c1"><span class="c0"></span></p><ol class="c5 lst-kix_a9wj3khbokgn-0" start="9"><li class="c6 c4 li-bullet-0"><h3 id="h.a3xmdi6y7tge" style="display:inline"><span class="c3">Reticulocytes/100 RBC&#39;s</span></h3></li></ol><p class="c2"><span style="overflow: hidden; display: inline-block; margin: 0.00px 0.00px; border: 0.00px solid #000000; transform: rotate(0.00rad) translateZ(0px); -webkit-transform: rotate(0.00rad) translateZ(0px); width: 624.00px; height: 386.67px;"><img alt="" src="images/image9.png" style="width: 624.00px; height: 386.67px; margin-left: 0.00px; margin-top: 0.00px; transform: rotate(0.00rad) translateZ(0px); -webkit-transform: rotate(0.00rad) translateZ(0px);" title="Chart"></span></p><p class="c1"><span class="c0"></span></p><p class="c1"><span class="c0"></span></p><p class="c1"><span class="c0"></span></p><ol class="c5 lst-kix_a9wj3khbokgn-0" start="10"><li class="c6 c4 li-bullet-0"><h3 id="h.kq6zwd7e03s" style="display:inline"><span class="c3">Reticulocytes</span></h3></li></ol><p class="c2"><span style="overflow: hidden; display: inline-block; margin: 0.00px 0.00px; border: 0.00px solid #000000; transform: rotate(0.00rad) translateZ(0px); -webkit-transform: rotate(0.00rad) translateZ(0px); width: 624.00px; height: 386.67px;"><img alt="" src="images/image5.png" style="width: 624.00px; height: 386.67px; margin-left: 0.00px; margin-top: 0.00px; transform: rotate(0.00rad) translateZ(0px); -webkit-transform: rotate(0.00rad) translateZ(0px);" title="Chart"></span></p><p class="c1"><span class="c0"></span></p><p class="c1"><span class="c0"></span></p><p class="c1"><span class="c0"></span></p><ol class="c5 lst-kix_a9wj3khbokgn-0" start="11"><li class="c6 c4 li-bullet-0"><h3 id="h.5bph6vvoh9jm" style="display:inline"><span class="c3">Haptoglobin</span></h3></li></ol><p class="c1"><span class="c0"></span></p><p class="c2"><span class="c0">Normal Low: 30, Normal High: 220 mg/dL</span></p><p class="c2"><span class="c0">2/28&nbsp;&nbsp;&nbsp;&nbsp;&nbsp;&nbsp;&nbsp;&nbsp;3/9&nbsp;&nbsp;&nbsp;&nbsp;&nbsp;&nbsp;&nbsp;&nbsp;3/17&nbsp;&nbsp;&nbsp;&nbsp;&nbsp;&nbsp;&nbsp;&nbsp;3/25&nbsp;&nbsp;&nbsp;&nbsp;&nbsp;&nbsp;&nbsp;&nbsp;4/3&nbsp;&nbsp;&nbsp;&nbsp;&nbsp;&nbsp;&nbsp;&nbsp;4/11&nbsp;&nbsp;&nbsp;&nbsp;&nbsp;&nbsp;&nbsp;&nbsp;4/19&nbsp;&nbsp;&nbsp;&nbsp;&nbsp;&nbsp;&nbsp;&nbsp;4/28&nbsp;&nbsp;&nbsp;&nbsp;&nbsp;&nbsp;&nbsp;&nbsp;5/9&nbsp;&nbsp;&nbsp;&nbsp;&nbsp;&nbsp;&nbsp;&nbsp;5/16&nbsp;&nbsp;&nbsp;&nbsp;&nbsp;&nbsp;&nbsp;&nbsp;</span></p><p class="c2"><span class="c0">&lt;9&nbsp;&nbsp;&nbsp;&nbsp;&nbsp;&nbsp;&nbsp;&nbsp;&lt;9&nbsp;&nbsp;&nbsp;&nbsp;&nbsp;&nbsp;&nbsp;&nbsp;&lt;9&nbsp;&nbsp;&nbsp;&nbsp;&nbsp;&nbsp;&nbsp;&nbsp;&lt;9&nbsp;&nbsp;&nbsp;&nbsp;&nbsp;&nbsp;&nbsp;&nbsp;&lt;9&nbsp;&nbsp;&nbsp;&nbsp;&nbsp;&nbsp;&nbsp;&nbsp;&lt;9&nbsp;&nbsp;&nbsp;&nbsp;&nbsp;&nbsp;&nbsp;&nbsp;&lt;9&nbsp;&nbsp;&nbsp;&nbsp;&nbsp;&nbsp;&nbsp;&nbsp;&lt;9&nbsp;&nbsp;&nbsp;&nbsp;&nbsp;&nbsp;&nbsp;&nbsp;&lt;9&nbsp;&nbsp;&nbsp;&nbsp;&nbsp;&nbsp;&nbsp;&nbsp;&lt;9</span></p><p class="c1"><span class="c0"></span></p><p class="c1"><span class="c0"></span></p><p class="c1"><span class="c0"></span></p><p class="c1"><span class="c0"></span></p><p class="c1"><span class="c0"></span></p><p class="c1"><span class="c0"></span></p><p class="c1"><span class="c0"></span></p><p class="c1"><span class="c0"></span></p><p class="c1"><span class="c0"></span></p><p class="c1"><span class="c0"></span></p><p class="c1"><span class="c0"></span></p><p class="c1"><span class="c0"></span></p></body></html>
